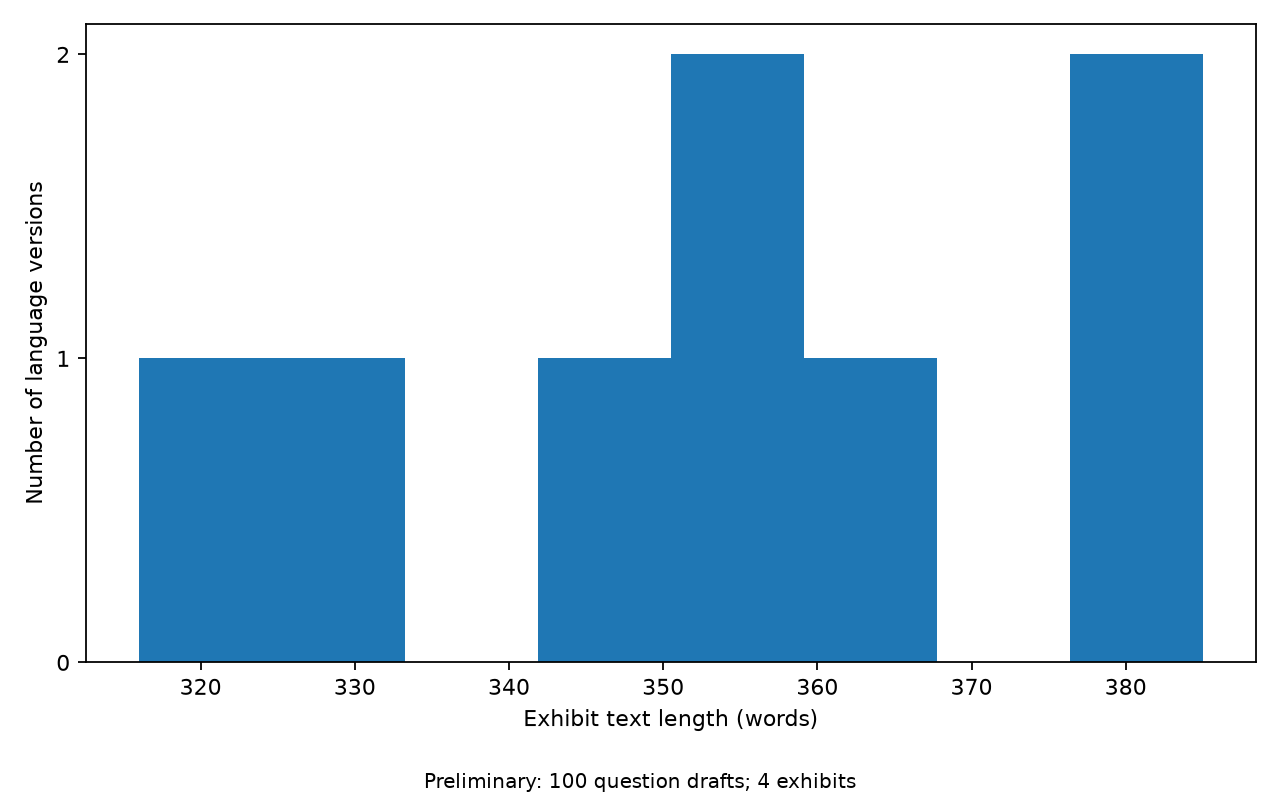
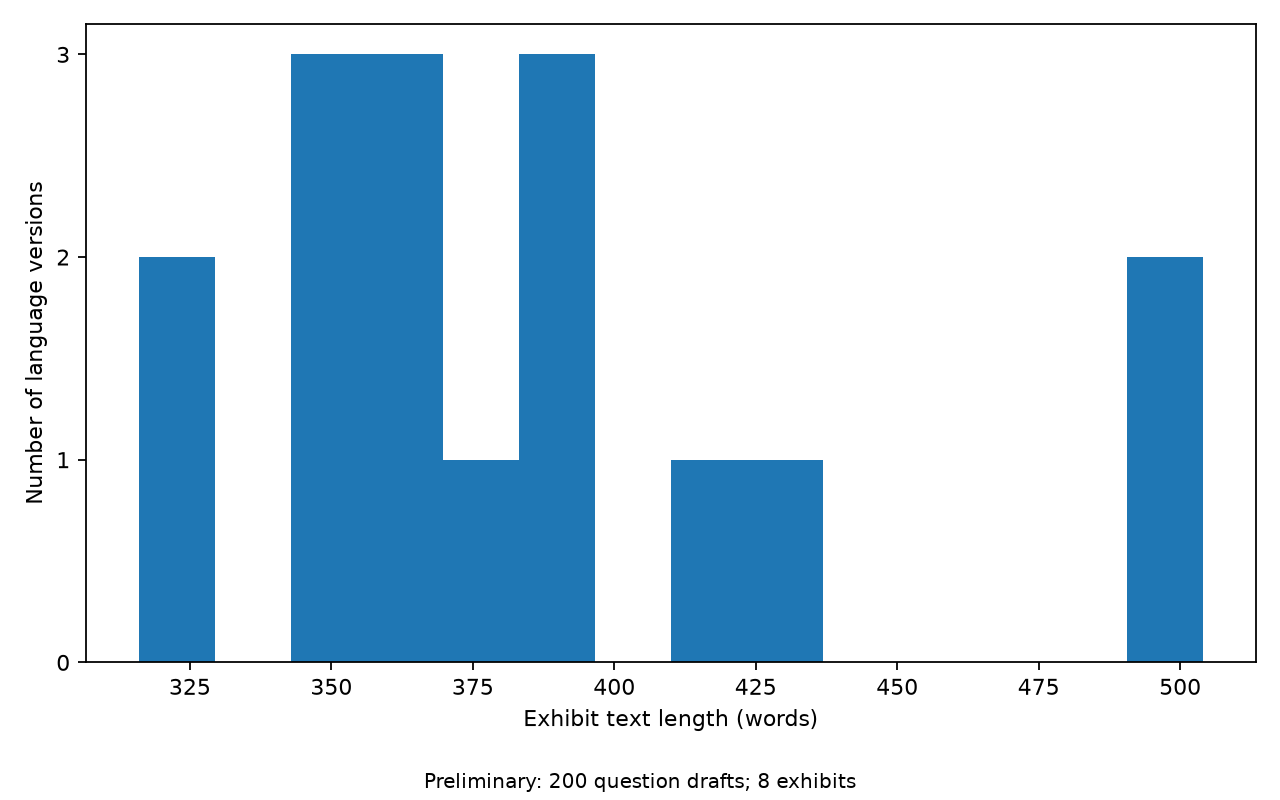
Refresh preliminary dataset analysis for M3

diff --git a/results/data_tables.md b/results/data_tables.md
@@ -1,18 +1,18 @@
 # Preliminary dataset analysis
 
-These statistics describe the supplied question drafts and exhibit texts. They are not final M3 dataset statistics or model performance results.
+These statistics describe the available preliminary drafts. Question review and exhibit-level splits are pending. Model performance is reported separately after validation.
 
-Input questions: `data/questions/questions.csv`
+Input questions: Kerim's `data/questions/questions.csv` (q0001–q0100) and Tarik's snapshot at `e2cf0ad:data/questions/questions.csv` (q0101–q0200).
 
 Input exhibit directory: `data/exhibits`
 
-Questions: **100**; distinct question exhibits: **4**; exhibit texts: **4** with **8 language versions**.
+Questions: **200**; distinct question exhibits: **8**; exhibit texts: **8** with **16 language versions**.
 
 ## Review status
 
-Rows with a recorded valid source value: **0/100**.
+Rows with a recorded valid source value: **100/200**.
 
-Rows with an independent reviewer recorded: **0/100**.
+Rows with an independent reviewer recorded: **0/200**.
 
 Recorded metadata counts do not replace validation of labels and answer spans.
 
@@ -20,40 +20,45 @@ Recorded metadata counts do not replace validation of labels and answer spans.
 
 | question_class | bs | en | total |
 | --- | --- | --- | --- |
-| answerable | 22 | 23 | 45 |
-| unanswerable_plausible | 20 | 20 | 40 |
-| out_of_scope | 8 | 7 | 15 |
-| total | 50 | 50 | 100 |
+| answerable | 46 | 47 | 93 |
+| unanswerable_plausible | 40 | 36 | 76 |
+| out_of_scope | 16 | 15 | 31 |
+| total | 102 | 98 | 200 |
 
 ## Questions per exhibit
 
 | exhibit_id | bs | en | total |
 | --- | --- | --- | --- |
 | ibu_about_programs | 12 | 13 | 25 |
+| ibu_academic_calendar | 13 | 12 | 25 |
 | ibu_feh | 12 | 13 | 25 |
 | ibu_fess | 13 | 12 | 25 |
+| ibu_kk_igman_burch | 13 | 12 | 25 |
 | ibu_podcast_media | 13 | 12 | 25 |
+| ibu_student_life | 13 | 12 | 25 |
+| ibu_visitor_faq | 13 | 12 | 25 |
 
 ## Question contributors
 
 | author | questions |
 | --- | --- |
 | kerim | 100 |
+| tarik | 100 |
 
 ## Split status
 
-All **100** split values are unassigned. No split distribution is reported.
+All **200** split values are unassigned. No split distribution is reported.
 
 ## Lengths
 
 | group | n | mean | median | sample_sd | min | max |
 | --- | --- | --- | --- | --- | --- | --- |
-| questions_all | 100 | 9.11 | 9.0 | 2.02 | 4 | 14 |
-| questions_bs | 50 | 8.32 | 8.0 | 1.96 | 4 | 14 |
-| questions_en | 50 | 9.9 | 9.5 | 1.78 | 7 | 14 |
-| exhibit_versions_all | 8 | 353.88 | 355.5 | 23.52 | 316 | 385 |
-| exhibit_versions_bs | 4 | 337.5 | 338.0 | 19.36 | 316 | 358 |
-| exhibit_versions_en | 4 | 370.25 | 371.5 | 14.17 | 353 | 385 |
+| questions_all | 200 | 8.2 | 8.0 | 2.31 | 4 | 15 |
+| questions_bs | 102 | 7.43 | 7.0 | 2.2 | 4 | 14 |
+| questions_en | 98 | 8.99 | 9.0 | 2.15 | 4 | 15 |
+| exhibit_versions_all | 16 | 386.31 | 371.5 | 54.59 | 316 | 504 |
+| exhibit_versions_bs | 8 | 361.12 | 353.5 | 37.07 | 316 | 432 |
+| exhibit_versions_en | 8 | 411.5 | 385.0 | 59.68 | 353 | 504 |
 
 Lengths count whitespace-separated words. SD uses n − 1; N/A denotes an undefined statistic.
 
@@ -63,47 +68,52 @@ Lengths count whitespace-separated words. SD uses n − 1; N/A denotes an undefi
 | --- | --- | --- |
 | ibu_about_programs | bs | 327 |
 | ibu_about_programs | en | 353 |
+| ibu_academic_calendar | bs | 394 |
+| ibu_academic_calendar | en | 504 |
 | ibu_feh | bs | 349 |
 | ibu_feh | en | 365 |
 | ibu_fess | bs | 358 |
 | ibu_fess | en | 385 |
+| ibu_kk_igman_burch | bs | 364 |
+| ibu_kk_igman_burch | en | 420 |
 | ibu_podcast_media | bs | 316 |
 | ibu_podcast_media | en | 378 |
+| ibu_student_life | bs | 349 |
+| ibu_student_life | en | 385 |
+| ibu_visitor_faq | bs | 432 |
+| ibu_visitor_faq | en | 502 |
 
 ## Question–exhibit lexical overlap
 
 | label | questions | mean_jaccard | median_jaccard | min_jaccard | max_jaccard |
 | --- | --- | --- | --- | --- | --- |
-| answerable | 45 | 0.0303 | 0.0338 | 0.0084 | 0.0524 |
-| unanswerable_plausible | 40 | 0.0232 | 0.0242 | 0.0041 | 0.0515 |
-| out_of_scope | 15 | 0.0073 | 0.0052 | 0.0 | 0.015 |
+| answerable | 93 | 0.0301 | 0.0312 | 0.0084 | 0.0635 |
+| unanswerable_plausible | 76 | 0.0216 | 0.021 | 0.0033 | 0.0515 |
+| out_of_scope | 31 | 0.009 | 0.0084 | 0.0 | 0.0188 |
 
 Jaccard uses unique lowercase word tokens from the selected exhibit text in the same language. Tokens match Unicode `\w+`; diacritics are retained, without stemming or stopword removal. Similarity is the size of the token intersection divided by the token union, or zero for an empty union.
 
-Mean Jaccard: answerable **0.0303**, plausible **0.0232**, out of scope **0.0073**.
+Mean Jaccard: answerable **0.0301**, plausible **0.0216**, out of scope **0.0090**.
 
 A plausible question can share topic words with the text while requesting an unstated fact. Jaccard measures lexical overlap, not answerability or BM25 performance. These descriptive results do not establish that a retrieval threshold succeeds or fails.
 
 ## Bosnian diacritics
 
-Bosnian questions without any č/ć/đ/š/ž character: **28/50 (56.0%)**.
+Bosnian questions without any č/ć/đ/š/ž character: **61/102 (59.8%)**.
 
 This is **not** a reliable count of deliberately omitted diacritics: many correctly written questions naturally contain none.
 
-Documented intentional omissions supplied from the authoring record: **10/50 (20.0%)**.
-
-Declared qids: `q0003`, `q0009`, `q0011`, `q0028`, `q0032`, `q0054`, `q0059`, `q0061`, `q0079`, `q0083`.
-
-Other diacritic-free Bosnian questions: **18**. Character absence alone does not establish their writing intent.
-
-The declared qids are authoring annotations, not independent human review approvals.
+Kerim's authoring record identifies 10 intentional omissions among his 50 Bosnian drafts. Intentional omissions across both authors remain unquantified.
 
 ## Reproduce
 
-Run from the repository root:
+Run from the pre-integration Kerim branch with the reviewed wording in `data/questions/questions.csv`:
 
 ```bash
-uv run --frozen python scripts/data_analysis.py --questions data/questions/questions.csv --exhibits data/exhibits --out results --preliminary --intentional-no-diacritics q0003 q0009 q0011 q0028 q0032 q0054 q0059 q0061 q0079 q0083
+analysis_dir=$(mktemp -d)
+cp data/questions/questions.csv "$analysis_dir/questions.csv"
+git show e2cf0ad:data/questions/questions.csv | tail -n +2 >> "$analysis_dir/questions.csv"
+uv run --frozen python scripts/data_analysis.py --questions "$analysis_dir/questions.csv" --exhibits data/exhibits --out results --preliminary
 ```
 
 ## Figures
